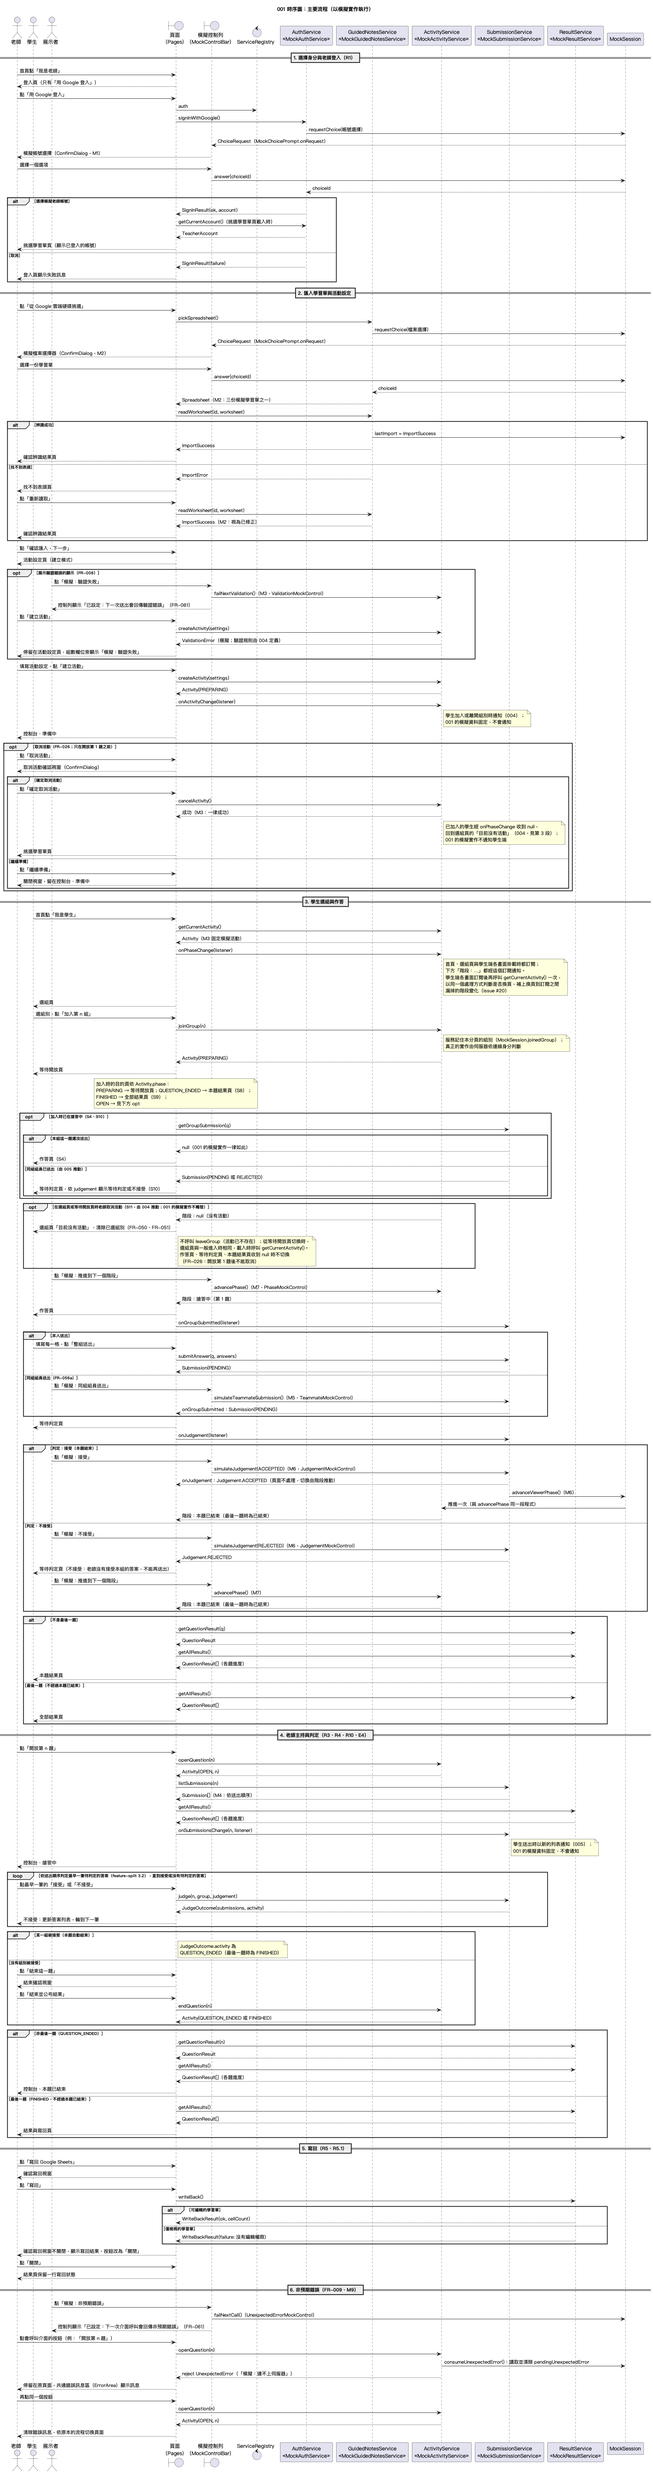
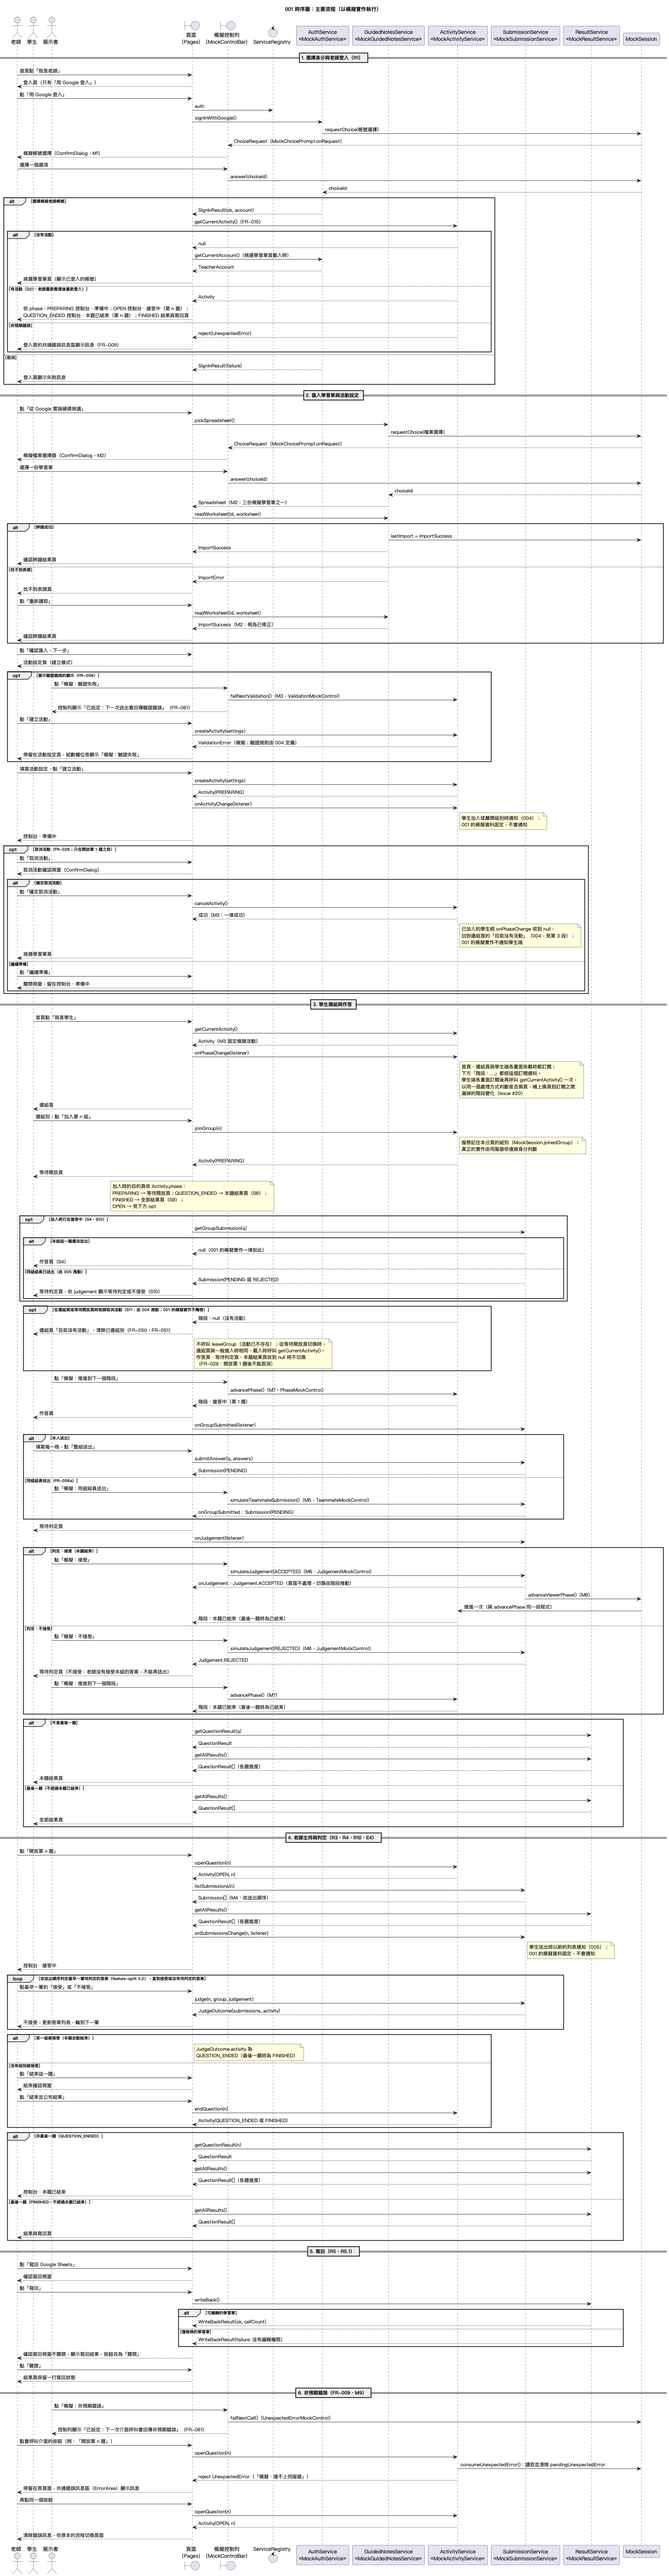
spec(001): return the teacher to the console after sign-in
004 decided D21: the activity keeps running when the teacher reloads,
but 001 always sent a signed-in teacher to T-Pick, so the teacher
could not get back to a running activity (004 C1).

Refs: FR-015, US1 AC-3, AC-8, AC-9, D21, #17

diff --git a/specs/001-ui-prototype/spec.md b/specs/001-ui-prototype/spec.md
@@ -86,7 +86,7 @@
 | D18 | 說明文字中的成功規則「老師依送出順序判定，第一個被接受的組別搶答成功」 | FR-023；「相對於設計稿的調整」末段 | 005（依 feature-split 3.2） |
 | D19 | 寫回確認視窗說明「這些填空格原本的內容會被覆蓋」 | FR-041 | 006 |
 | D20 | 寫回失敗時不寫入任何格子，並說明沒有寫入任何格子 | FR-042；Edge Cases | 006 |
-| D21 | 老師在活動進行中重新整理頁面時，活動要結束，還是讓老師登入後回到控制台。若選擇回到控制台，須先修改 001 的頁面切換（目前重新整理一律回到首頁） | 001 plan 審查（2026-11-21） | 004 |
+| D21 | 老師在活動進行中重新整理頁面時，活動要結束，還是讓老師登入後回到控制台。若選擇回到控制台，須先修改 001 的頁面切換（目前重新整理一律回到首頁） | 001 plan 審查（2026-11-21） | 004（已決定：活動繼續；老師登入後依目前活動的階段進入控制台，004 spec「需請 001 修改」C1。001 的登入頁已配合，重新整理仍回到首頁，2026-11-27，FR-015） |
 | D22 | Socket.IO 只使用 WebSocket 傳輸，不使用長輪詢，避免分頁多時在長輪詢階段撞到瀏覽器對同一網域 6 條連線的限制 | 001 plan 審查（2026-11-21） | 004 |
 | D23 | 「比第一名慢的秒數」中的「第一名」指最早送出的組別，還是被老師接受的組別 | 001 analyze（2026-11-21）；FR-040、Key Entities | 006 |
 
@@ -121,6 +121,13 @@
 - Q: 人工驗證時發現寫回失敗只顯示在結果頁的一行文字，不夠明顯，怎麼處理？ → A: 寫回結果改為顯示在寫回確認視窗內：按「寫回」後視窗不關閉，成功時顯示寫入的格數，失敗時顯示原因，按鈕改為「關閉」；關閉後結果頁保留一行寫回狀態（US3 AC-11、AC-12、AC-14，FR-042）。
 - Q: 圖表一致性驗證發現：老師取消活動時，001 的學生頁面沒有任何處理，004 無法只提供真正的實作就讓學生回到「目前沒有活動」。001 是否要先處理？ → A: 要。活動介面的「通知階段改變」在活動被取消時通知「沒有活動」；首頁、選組頁、等待開放頁收到時切換到沒有活動的狀態（FR-010、FR-050、FR-051）。作答頁、等待判定頁、本題結果頁在開放第 1 題之後，依 FR-026 不會收到，收到時不切換。001 的模擬實作仍不觸發，以元件測試驗證（SC-002）。
 
+### Session 2026-11-27
+
+依 004 spec「需請 001 修改」C1（D21 已決定：活動繼續，老師重新登入後回到控制台）修訂：
+
+- Q: 老師登入成功後進入哪一頁？ → A: 依活動介面回傳的目前活動決定：沒有活動時進入挑選學習單頁（不變）；準備中進入控制台・準備中；搶答中進入控制台・搶答中（第 n 題）；本題已結束進入控制台・本題已結束（第 n 題）；已結束進入結果與寫回頁（FR-015、US1 AC-3、AC-8）。重新整理仍一律回到首頁（FR-014）。
+- Q: 登入成功但取得目前活動失敗時怎麼處理？ → A: 依 FR-009 停留在登入頁，在共通錯誤訊息區顯示介面回傳的訊息，不進入老師頁面；老師再按「用 Google 登入」重試（FR-015、US1 AC-9）。
+
 ## User Scenarios & Testing *(mandatory)*
 
 ### User Story 1 - 選擇身分進入對應入口 (Priority: P1)
@@ -135,10 +142,12 @@
 
 1. **Given** 使用者在首頁, **When** 點「我是學生」, **Then** 進入選組頁，過程中不要求任何登入。
 2. **Given** 使用者在首頁, **When** 點「我是老師」, **Then** 進入登入頁，頁面上只有「用 Google 登入」一個登入選項。
-3. **Given** 使用者在登入頁, **When** 點「用 Google 登入」，在模擬帳號選擇中選「模擬老師帳號」, **Then** 模擬為登入成功，進入挑選學習單頁，並顯示模擬老師帳號的名稱與電子郵件。
+3. **Given** 使用者在登入頁，且沒有活動, **When** 點「用 Google 登入」，在模擬帳號選擇中選「模擬老師帳號」, **Then** 模擬為登入成功，進入挑選學習單頁，並顯示模擬老師帳號的名稱與電子郵件。
 4. **Given** 使用者在登入頁, **When** 點「用 Google 登入」，在模擬帳號選擇中選「取消」, **Then** 模擬為登入失敗，停留在登入頁，並在登入失敗訊息區顯示「已取消登入」。
 6. **Given** 使用者在登入頁或選組頁, **When** 點「返回首頁」, **Then** 回到首頁，過程中不呼叫任何介面。（AC-5 已於 2026-11-21 刪除，編號不重複使用）
 7. **Given** 使用者從首頁進入登入頁或選組頁, **When** 按瀏覽器的「上一頁」, **Then** 回到首頁，與點「返回首頁」相同。
+8. **Given** 使用者在登入頁，且已有活動, **When** 點「用 Google 登入」並登入成功, **Then** 依活動介面回傳的目前活動進入對應頁面：準備中進入控制台・準備中；搶答中（第 n 題）進入控制台・搶答中（第 n 題）；本題已結束（第 n 題）進入控制台・本題已結束（第 n 題）；已結束進入結果與寫回頁（FR-015；004 REQ-ACT-21、AC-26）。
+9. **Given** 使用者在登入頁, **When** 點「用 Google 登入」並登入成功，但取得目前活動回傳非預期錯誤, **Then** 停留在登入頁，在共通錯誤訊息區顯示介面回傳的訊息；再點一次「用 Google 登入」且取得目前活動成功時，錯誤訊息清除，依 AC-3、AC-8 進入對應頁面（FR-015、FR-009）。
 
 ---
 
@@ -246,6 +255,8 @@
 ### Edge Cases
 
 - 登入失敗（取消登入）：停留在登入頁並顯示登入介面回傳的訊息，不進入老師頁面。
+- 老師在活動進行中重新整理後重新登入：依目前活動的階段回到控制台或結果與寫回頁，不回到挑選學習單頁（FR-015、D21）。
+- 登入成功但取得目前活動失敗：停留在登入頁，在共通錯誤訊息區顯示訊息，不進入老師頁面（FR-015）。
 - 在沒有返回類按鈕的頁面按瀏覽器的「上一頁」（例如首頁、加入組別後的學生頁面、建立活動後的控制台）：停留在原頁面，頁面與資料都不變（FR-014）。
 - 確認視窗或模擬選擇器開啟時按瀏覽器的「上一頁」：只關閉視窗，等同按「繼續作答」「繼續準備」「取消」或關閉選擇器（FR-014）。
 - 挑選學習單時關閉檔案選擇器：停留在原頁面，頁面內容不變。
@@ -289,6 +300,7 @@
 - **FR-011**: 選「我是學生」 MUST 直接進入選組頁，不要求登入。
 - **FR-012**: 選「我是老師」 MUST 進入登入頁；登入頁 MUST 只提供「用 Google 登入」一個登入選項。
 - **FR-013**: 登入頁 MUST 有登入失敗訊息區，顯示登入介面回傳的失敗訊息。失敗的種類與訊息文字由 002 定義；001 的模擬實作只回傳「已取消登入」一種。以 Google 登入的人即為老師，不判斷帳號是否為老師（Google 帳號無法提供這項資訊）。
+- **FR-015**: 登入成功後，登入頁 MUST 透過活動介面取得目前活動，依階段進入下列頁面：沒有活動：挑選學習單頁；準備中：控制台・準備中；搶答中（第 n 題）：控制台・搶答中（第 n 題）；本題已結束（第 n 題）：控制台・本題已結束（第 n 題）；已結束：結果與寫回頁。進入的頁面使用介面回傳的活動。取得目前活動回傳非預期錯誤時 MUST 依 FR-009 停留在登入頁並顯示訊息，不進入任何老師頁面。（D21；004 spec「需請 001 修改」C1、REQ-ACT-21）
 
 #### 老師：活動準備（R2、R2.1、R2.2、E1、R3）
 
@@ -393,7 +405,7 @@
 | --- | --- | --- | --- |
 | Main | 我是老師 | — | T-Login |
 | Main | 我是學生 | — | S-Join |
-| T-Login | 用 Google 登入 | 登入 | 成功：T-Pick；失敗：T-Login（登入失敗） |
+| T-Login | 用 Google 登入 | 登入；活動（取得目前活動與階段，登入成功後） | 成功時依目前活動（FR-015）：沒有活動：T-Pick；準備中：T-Lobby；搶答中：T-Live（第 n 題）；本題已結束：T-QuestionEnd（第 n 題）；已結束：T-Results。取得目前活動失敗：T-Login（共通錯誤訊息區）。登入失敗：T-Login（登入失敗） |
 | T-Login | 返回首頁 | — | Main |
 | T-Pick | 從 Google 雲端硬碟挑選 | 學習單（挑選、讀取） | 辨識成功：T-Import；找不到表頭：T-ImportError；取消：T-Pick |
 | T-Pick | 取消 | — | Main |
@@ -487,7 +499,7 @@
 ### Measurable Outcomes
 
 - **SC-001**: 「頁面與按鈕」表中 100% 的按鈕點擊後都到達表中指定的目的頁或狀態。
-- **SC-002**: 只使用模擬實作，展示者能讓畫面流程圖中 100% 的狀態與 100% 的箭頭（含驗證失敗）至少被觸發一次（「階段推動的切換」中標示「001 的模擬實作不觸發」的切換除外；這些切換改以元件測試驗證頁面的處理），且 FR-009 的共通錯誤訊息區在每個有介面呼叫的頁面都至少顯示一次。
+- **SC-002**: 只使用模擬實作，展示者能讓畫面流程圖中 100% 的狀態與 100% 的箭頭（含驗證失敗）至少被觸發一次（「階段推動的切換」中標示「001 的模擬實作不觸發」的切換除外，這些切換改以元件測試驗證頁面的處理；畫面流程圖的 T18–T21 也除外：T18–T21 在 001 的模擬中無法正確觸發（老師端與首頁、學生端的模擬活動互不相通，觸發時會進入老師沒有的活動），以元件測試驗證；對真實伺服器的完整流程由 004 AC-26 的 E2E 涵蓋），且 FR-009 的共通錯誤訊息區在每個有介面呼叫的頁面都至少顯示一次。
 - **SC-003**: 100% 的頁面在模擬模式下都看得到「模擬模式」標示；所有介面換成真正的實作後，標示與模擬控制列出現 0 次。
 - **SC-004**: 「相對於設計稿的調整」中列出的移除元素，在所有頁面中出現 0 次。
 - **SC-005**: 第一次使用的人在首頁 10 秒內能選擇身分並進入正確的入口頁。

diff --git a/specs/001-ui-prototype/tasks.md b/specs/001-ui-prototype/tasks.md
@@ -428,6 +428,27 @@ T012、T014、T015、T020、T021、T023、T024、T025、T028、T029、T031、T03
 
 ---
 
+## Phase 8.6: 規格修訂（2026-11-27）：老師登入後回到控制台（issue #17）
+
+**Purpose**: 套用 D21 的決定與 004 spec「需請 001 修改」C1（commit `spec(001): ...`）：老師登入成功後，登入頁呼叫 `ActivityService.getCurrentActivity()`，依階段進入 T-Pick、T-Lobby、T-Live、T-QuestionEnd 或 T-Results；取得失敗時依 FR-009 留在登入頁（spec FR-015、US1 AC-3、AC-8、AC-9；畫面流程圖 T18–T21；時序圖第 1 段）。
+
+- **只改登入頁**：`AppRouter` 的 `PageState` 已讓這些頁面以 `activity` 為參數，不需修改；重新整理仍回到首頁（RD-11）。
+- **模擬實作不變**：001 的模擬實作中老師端與首頁、學生端的模擬活動彼此獨立（M3、M7），T18–T21 以元件測試驗證（SC-002 除外項）。004 把活動介面換成真正的實作後只有一份活動。
+- **既有測試的斷言不修改**。
+
+### Tests（先寫，確認失敗）
+
+- [ ] T157 [US1] 擴充 `frontend/tests/component/TeacherLoginPage.test.tsx`：登入成功後 `getCurrentActivity` 回傳 `null` 時 `navigate` 參數為 `{ id: 'T-Pick' }`；回傳 `PREPARING`、`OPEN`（第 2 題）、`QUESTION_ENDED`（第 2 題）、`FINISHED` 的活動時，`navigate` 參數分別為 `{ id: 'T-Lobby', activity }`、`{ id: 'T-Live', activity }`、`{ id: 'T-QuestionEnd', activity }`、`{ id: 'T-Results', activity }`，`activity` 為介面回傳的活動（FR-015、US1 AC-3、AC-8、T18–T21）；登入失敗時不呼叫 `getCurrentActivity`（FR-013）；`getCurrentActivity` reject 時停留在登入頁、`ErrorArea` 顯示訊息、`navigate` 不被呼叫，再點一次成功時訊息清除並依階段切換（FR-015、FR-009、US1 AC-9）
+
+### Implementation
+
+- [ ] T158 [US1] 修改 `frontend/src/pages/teacher/TeacherLoginPage.tsx`：`signInWithGoogle()` 成功後呼叫 `activity.getCurrentActivity()`，依 `phase` 呼叫 `navigate`；`getCurrentActivity` reject 時以 `errorMessage()` 顯示於 `ErrorArea`；更新檔頭註解（FR-015；依賴 T157）
+- [ ] T159 執行 `npm run typecheck`、`npm run lint`、`npm test`、`npm run test:e2e`，確認 T157 通過，且其他測試沒有退步（SC-002）
+
+**Checkpoint**: 老師在活動進行中重新整理後重新登入，回到控制台目前的階段；004 Phase 7 依賴 C1 的 E2E 不需再 skip。
+
+---
+
 ## 需求與任務對照
 
 | 需求 | 任務 |
@@ -443,6 +464,7 @@ T012、T014、T015、T020、T021、T023、T024、T025、T028、T029、T031、T03
 | FR-009 共通錯誤訊息區 | T017、T036、T039、T045、T057、T058、T069、T081、T095、T136 |
 | FR-014 瀏覽器上一頁 | T060、T066a、T069、T080、T118、T119、T131、T132、T137、T138 |
 | FR-010–FR-013 | T044、T045、T050、T051、T105、T110、T149、T153 |
+| FR-015 | T157–T159 |
 | FR-020 | T046、T052、T056、T062 |
 | FR-021、FR-022 | T057、T061、T063 |
 | FR-023、FR-024 | T058、T064、T066a |
@@ -460,7 +482,7 @@ T012、T014、T015、T020、T021、T023、T024、T025、T028、T029、T031、T03
 | FR-058 | T083、T090 |
 | FR-060（M1–M9） | M1 T018/T026、T104/T109、M2 T019/T027、M3 T020/T028、T135/T140、M4–M6 T021/T029、T113/T123/T126、M7 T020/T028、T114/T125、M8 T022/T030、M9 T017/T025 |
 | FR-061 | T037、T041、T094、T107、T111、T116、T128 |
-| SC-001、SC-002 | T093、T095、T149–T152、T156 |
+| SC-001、SC-002 | T093、T095、T149–T152、T156、T157、T159 |
 | SC-003 | T037、T093、T097 |
 | SC-004 | T096 |
 | SC-005、SC-006 | T055、T092（人工驗證計時）、T134 |

diff --git a/specs/001-ui-prototype/contracts/service-interfaces.md b/specs/001-ui-prototype/contracts/service-interfaces.md
@@ -15,7 +15,7 @@
 
 | 方法 | 回傳 | 呼叫的頁面與按鈕 | 頁面如何呈現 |
 | --- | --- | --- | --- |
-| `signInWithGoogle()` | `Promise<SignInResult>` | T-Login「用 Google 登入」 | `ok`：進入 T-Pick；否則留在 T-Login，在失敗訊息區顯示對應 `failure` 的訊息（FR-013） |
+| `signInWithGoogle()` | `Promise<SignInResult>` | T-Login「用 Google 登入」 | `ok`：接著呼叫 `ActivityService.getCurrentActivity()`，依結果進入 T-Pick、T-Lobby、T-Live、T-QuestionEnd 或 T-Results（FR-015）；否則留在 T-Login，在失敗訊息區顯示對應 `failure` 的訊息（FR-013） |
 | `getCurrentAccount()` | `Promise<TeacherAccount \| null>` | T-Pick 載入時 | 顯示已登入帳號（FR-020） |
 
 ## GuidedNotesService（003 取代）
@@ -36,7 +36,7 @@
 | `endQuestion(n)` | `Promise<Activity>` | T-EndConfirm「結束並公布結果」 | `QUESTION_ENDED`：T-QuestionEnd；`FINISHED`：T-Results |
 | `joinGroup(n)` | `Promise<Activity>` | S-Join「加入第 n 組」 | 依 `phase` 切換（spec「階段推動的切換」、research RD-14）：`PREPARING` → S-Wait；`OPEN` → 先呼叫 `getGroupSubmission`；`QUESTION_ENDED` → S-QuestionDone；`FINISHED` → S-Results |
 | `leaveGroup()` | `Promise<void>` | S-Wait「選錯組別？重新選擇」 | S-Join；服務不再記住本分頁的組別 |
-| `getCurrentActivity()` | `Promise<Activity \| null>` | Main、S-Join 載入時 | `null`：「目前沒有活動」（FR-010、FR-050）。T-Lobby 不呼叫，改用 `createActivity`、`updateSettings` 回傳的 `Activity`，之後由 `onActivityChange` 更新（時序圖第 2 段） |
+| `getCurrentActivity()` | `Promise<Activity \| null>` | Main、S-Join 載入時；T-Login 登入成功後 | `null`：「目前沒有活動」（FR-010、FR-050）。T-Login：`null` 進入 T-Pick；`PREPARING` → T-Lobby、`OPEN` → T-Live、`QUESTION_ENDED` → T-QuestionEnd、`FINISHED` → T-Results，頁面參數為回傳的 `Activity`；reject 時留在 T-Login，在 `ErrorArea` 顯示（FR-015、FR-009）。T-Lobby 不呼叫，改用 `createActivity`、`updateSettings` 回傳的 `Activity`，之後由 `onActivityChange` 更新（時序圖第 2 段） |
 | `onPhaseChange(listener)` | `Unsubscribe` | Main、S-Join、S-Wait、S-Answer、S-Submitted、S-QuestionDone | listener 收 `Activity \| null`。`Activity`：依 spec「階段推動的切換」表切換；Main 更新目前活動資訊。`null`（活動被取消，S11）：Main 顯示沒有活動；S-Join 改為沒有活動並清除已選組別，不呼叫任何介面（FR-050）；S-Wait 切換到 S-Join（不帶 `previousGroup`），不呼叫 `leaveGroup`，S-Join 與一般進入時相同，載入時呼叫 `getCurrentActivity()`（FR-051）；S-Answer、S-Submitted、S-QuestionDone 不切換（FR-026）。001 的模擬實作不通知 `null` |
 | `onActivityChange(listener)` | `Unsubscribe` | T-Lobby（以及其他顯示各組人數的老師端頁面） | 以通知的 `Activity` 更新各組已加入人數（spec「階段推動的切換」T-Lobby 列）。001 的模擬實作不會通知 |
 

diff --git a/specs/001-ui-prototype/research.md b/specs/001-ui-prototype/research.md
@@ -72,7 +72,7 @@
 - **金鑰位置**：OAuth client secret 與 token 只放在伺服器端的 `.env`、`credentials/`（已列入 `.gitignore`）。
 - **Google Picker 的 API key**：「從 Google 雲端硬碟挑選」使用的 Picker API 需要一把瀏覽器端的 API key，執行時在瀏覽器中一定看得到。可經由 `frontend/.env.local` 注入而不進 repo，但它不是祕密，應在 Google Cloud 主控台限制可用的網域與 API。由 002、003 處理。
 - **學生組別由伺服器判斷**：學生加入組別後，伺服器依連線身分記住該連線的組別；送出答案與接收判定時，前端不傳組別，避免任何分頁冒用其他組別（原則 VI）。介面已依此設計（`submitAnswer`、`onJudgement`、`leaveGroup` 不帶組別），具體的連線身分做法由 004、005 決定。
-- **老師重新整理頁面**：活動進行中老師重新整理時，活動要結束還是回到控制台，由 004 決定（spec D21）；001 目前重新整理一律回到首頁（RD-11）。
+- **老師重新整理頁面**：活動進行中老師重新整理時活動繼續（004 已決定，spec D21）；重新整理仍回到首頁（RD-11），老師重新登入後由登入頁依目前活動回到控制台（spec FR-015）。
 - 001 不使用任何金鑰。
 
 ## RD-07 Logging
@@ -126,7 +126,7 @@
 
 ## RD-11 頁面切換
 
-- **Decision**: `AppRouter` 以 React state 保存目前的頁面與頁面參數，不使用 URL 路由，也不使用路由套件。開啟或重新整理分頁一律回到首頁。
+- **Decision**: `AppRouter` 以 React state 保存目前的頁面與頁面參數，不使用 URL 路由，也不使用路由套件。開啟或重新整理分頁一律回到首頁。老師重新登入後，登入頁以 `getCurrentActivity()` 取得目前活動，依階段直接切換到 T-Lobby、T-Live、T-QuestionEnd 或 T-Results，沒有活動時到 T-Pick（spec FR-015、D21）；這些頁面本來就以 `activity` 為參數，`AppRouter` 不需新增頁面狀態，也不需要 URL 路由。
 - **瀏覽器上一頁（FR-014）**: `AppRouter` 每次切換頁面時以 History API（`pushState`）加入一筆不改變網址的紀錄，並監聽 `popstate`：
   - 有確認視窗或模擬選擇器開啟時，只關閉它（等同按其取消類按鈕）。
   - 目前頁面有不呼叫介面的返回類按鈕（T-Login、S-Join 的「返回首頁」，T-Pick、T-Import、T-Setup 修改模式的「取消」，T-Setup 建立模式的「上一步」）時，執行與該按鈕相同的切換。
